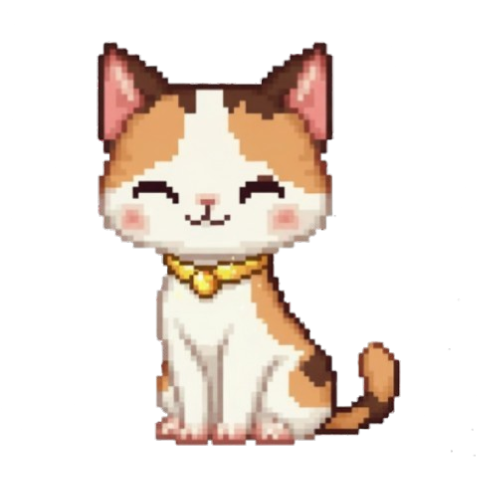
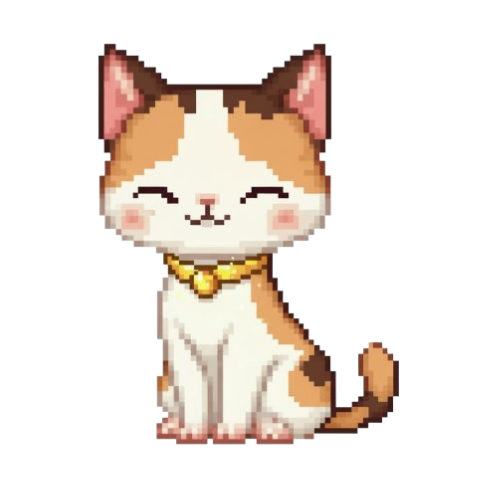
Blink alignment: baby source-swap; teen/elite/royal shared size and stretch; adult -2px
Made-with: Cursor

diff --git a/app/(tabs)/pet.tsx b/app/(tabs)/pet.tsx
@@ -381,27 +381,52 @@ export default function PetScreen() {
                 },
               ]}
             >
-              <Animated.Image
-                source={catImages[stage]}
-                style={[
-                  styles.catImageLayer,
-                  { width: catSize, height: catSize, opacity: catOpacity },
-                ]}
-                resizeMode="contain"
-              />
-              <Animated.Image
-                source={catBlinkImages[stage]}
-                style={[
-                  styles.catImageLayer,
-                  {
-                    width: catSize,
-                    height: catSize,
-                    opacity: isBlinking ? 1 : 0,
-                    transform: [{ translateX: 2 }],
-                  },
-                ]}
-                resizeMode="contain"
-              />
+              {/* Baby: single image source swap (perfect alignment). Teen/elite/royal: two layers, same frame so blink aligns with base. */}
+              {stage === "baby" ? (
+                <Animated.Image
+                  source={isBlinking ? catBlinkImages[stage] : catImages[stage]}
+                  style={[
+                    styles.catImageLayer,
+                    {
+                      width: catSize,
+                      height: catSize,
+                      opacity: catOpacity,
+                    },
+                  ]}
+                  resizeMode="contain"
+                />
+              ) : (
+                (() => {
+                  const layerSize = { width: catSize, height: catSize };
+                  return (
+                    <>
+                      <Animated.Image
+                        source={catImages[stage]}
+                        style={[
+                          styles.catImageLayer,
+                          layerSize,
+                          { opacity: catOpacity },
+                        ]}
+                        resizeMode="stretch"
+                      />
+                      <Animated.Image
+                        source={catBlinkImages[stage]}
+                        style={[
+                          styles.catImageLayer,
+                          layerSize,
+                          {
+                            opacity: isBlinking ? 1 : 0,
+                            transform: [
+                              { translateX: stage === "teen" ? -2 : 0 },
+                            ],
+                          },
+                        ]}
+                        resizeMode="stretch"
+                      />
+                    </>
+                  );
+                })()
+              )}
             </Animated.View>
 
             {/* Floating hearts (petting animation) */}
